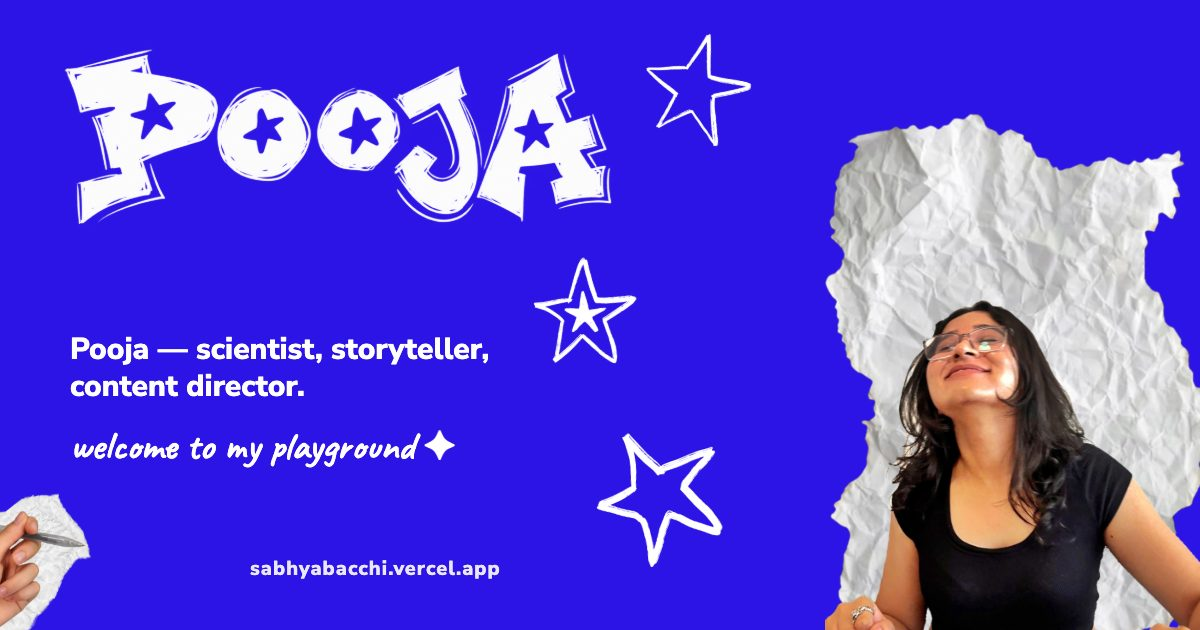
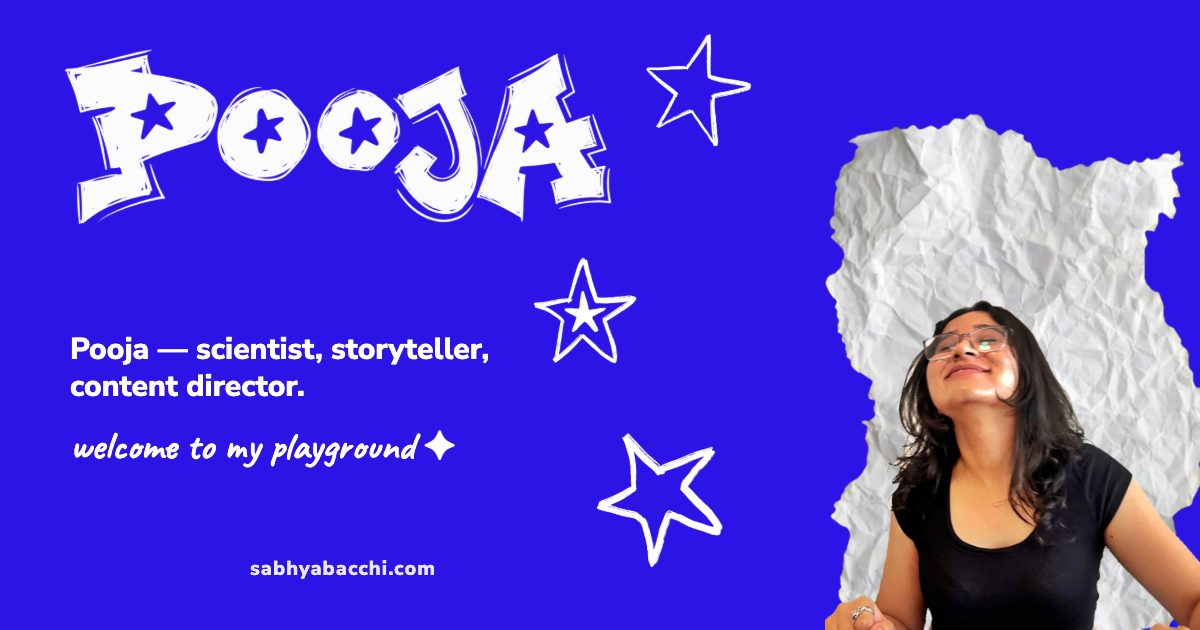
Switch canonical URLs and social cards to sabhyabacchi.com

Changed region(s): [[0.0, 0.7841, 0.0925, 1.0], [0.3392, 0.8746, 0.4317, 0.9349]]

diff --git a/my-work/index.html b/my-work/index.html
@@ -19,13 +19,13 @@
 <meta property="og:type" content="website">
 <meta property="og:title" content="My work — SabhyaBacchi">
 <meta property="og:description" content="Research, strategy and content direction for Minimalist × Hindustan Unilever — 22.8M views, 35.4K likes, 3 product launches informed.">
-<meta property="og:url" content="https://sabhyabacchi.vercel.app/my-work/">
-<meta property="og:image" content="https://sabhyabacchi.vercel.app/assets/og/work.jpg">
+<meta property="og:url" content="https://sabhyabacchi.com/my-work/">
+<meta property="og:image" content="https://sabhyabacchi.com/assets/og/work.jpg">
 <meta property="og:image:width" content="1200">
 <meta property="og:image:height" content="630">
 <meta name="twitter:title" content="My work — SabhyaBacchi">
 <meta name="twitter:description" content="Research, strategy and content direction for Minimalist × Hindustan Unilever — 22.8M views, 35.4K likes, 3 product launches informed.">
-<meta name="twitter:image" content="https://sabhyabacchi.vercel.app/assets/og/work.jpg">
+<meta name="twitter:image" content="https://sabhyabacchi.com/assets/og/work.jpg">
 <link rel="preconnect" href="https://images.squarespace-cdn.com">
 <link rel="preconnect" href="https://file.squarespace-cdn.com" crossorigin="">
 <style data-sqsp-font-ids="6a31393d494e3c6626e63daa,6a3137d3494e3c6626e63abc">

diff --git a/about/index.html b/about/index.html
@@ -19,13 +19,13 @@
 <meta property="og:type" content="website">
 <meta property="og:title" content="About — SabhyaBacchi">
 <meta property="og:description" content="A scientist. A paradox. A storyteller with a camera and crayons in her hands. Previously in STEM: DRDO, ISRO, Oxford, IISc.">
-<meta property="og:url" content="https://sabhyabacchi.vercel.app/about/">
-<meta property="og:image" content="https://sabhyabacchi.vercel.app/assets/og/about.jpg">
+<meta property="og:url" content="https://sabhyabacchi.com/about/">
+<meta property="og:image" content="https://sabhyabacchi.com/assets/og/about.jpg">
 <meta property="og:image:width" content="1200">
 <meta property="og:image:height" content="630">
 <meta name="twitter:title" content="About — SabhyaBacchi">
 <meta name="twitter:description" content="A scientist. A paradox. A storyteller with a camera and crayons in her hands. Previously in STEM: DRDO, ISRO, Oxford, IISc.">
-<meta name="twitter:image" content="https://sabhyabacchi.vercel.app/assets/og/about.jpg">
+<meta name="twitter:image" content="https://sabhyabacchi.com/assets/og/about.jpg">
 <link rel="preconnect" href="https://images.squarespace-cdn.com">
 <link rel="preconnect" href="https://file.squarespace-cdn.com" crossorigin="">
 <style data-sqsp-font-ids="6a31393d494e3c6626e63daa,6a3137d3494e3c6626e63abc">

diff --git a/contact/index.html b/contact/index.html
@@ -19,13 +19,13 @@
 <meta property="og:type" content="website">
 <meta property="og:title" content="Contact — SabhyaBacchi">
 <meta property="og:description" content="Say hi — collaborations, commissions, or just strange little things you think I'd like.">
-<meta property="og:url" content="https://sabhyabacchi.vercel.app/contact/">
-<meta property="og:image" content="https://sabhyabacchi.vercel.app/assets/og/contact.jpg">
+<meta property="og:url" content="https://sabhyabacchi.com/contact/">
+<meta property="og:image" content="https://sabhyabacchi.com/assets/og/contact.jpg">
 <meta property="og:image:width" content="1200">
 <meta property="og:image:height" content="630">
 <meta name="twitter:title" content="Contact — SabhyaBacchi">
 <meta name="twitter:description" content="Say hi — collaborations, commissions, or just strange little things you think I'd like.">
-<meta name="twitter:image" content="https://sabhyabacchi.vercel.app/assets/og/contact.jpg">
+<meta name="twitter:image" content="https://sabhyabacchi.com/assets/og/contact.jpg">
 <link rel="preconnect" href="https://images.squarespace-cdn.com">
 <link rel="preconnect" href="https://file.squarespace-cdn.com" crossorigin="">
 <style data-sqsp-font-ids="6a31393d494e3c6626e63daa,6a3137d3494e3c6626e63abc">

diff --git a/index.html b/index.html
@@ -19,13 +19,13 @@
 <meta property="og:type" content="website">
 <meta property="og:title" content="SabhyaBacchi — Pooja">
 <meta property="og:description" content="Pooja — scientist, storyteller, content director. Welcome to my playground.">
-<meta property="og:url" content="https://sabhyabacchi.vercel.app">
-<meta property="og:image" content="https://sabhyabacchi.vercel.app/assets/og/home.jpg">
+<meta property="og:url" content="https://sabhyabacchi.com">
+<meta property="og:image" content="https://sabhyabacchi.com/assets/og/home.jpg">
 <meta property="og:image:width" content="1200">
 <meta property="og:image:height" content="630">
 <meta name="twitter:title" content="SabhyaBacchi — Pooja">
 <meta name="twitter:description" content="Pooja — scientist, storyteller, content director. Welcome to my playground.">
-<meta name="twitter:image" content="https://sabhyabacchi.vercel.app/assets/og/home.jpg">
+<meta name="twitter:image" content="https://sabhyabacchi.com/assets/og/home.jpg">
 <link rel="preconnect" href="https://images.squarespace-cdn.com">
 <link rel="preconnect" href="https://file.squarespace-cdn.com" crossorigin="">
 <style data-sqsp-font-ids="6a31393d494e3c6626e63daa,6a3137d3494e3c6626e63abc">

diff --git a/og/about.html b/og/about.html
@@ -3,7 +3,7 @@
   <img class="star" src="../assets/img3.png" style="left:560px;top:40px;width:150px;transform:rotate(12deg)">
   <img class="star" src="../assets/img5.png" style="left:640px;top:420px;width:150px;transform:rotate(-10deg)">
   <div class="paper" style="height:720px;right:-20px;bottom:-60px"><img src="../assets/friend-paper.png"></div>
-  <div class="url" style="color:#2C14E6;opacity:1">sabhyabacchi.vercel.app</div>
+  <div class="url" style="color:#2C14E6;opacity:1">sabhyabacchi.com</div>
   <div class="title"><div class="kicker">[about me]</div>
     <div class="h1">A scientist.<br>A paradox.<br>A storyteller.</div></div>
   <div class="sub" style="max-width:600px;font-size:26px">…with a camera and crayons in her hands.<br><span style="opacity:.8;font-size:22px">previously in STEM · DRDO · ISRO · Oxford · IISc</span></div>

diff --git a/og/work.html b/og/work.html
@@ -3,7 +3,7 @@
   <img class="star" src="../assets/img2.png" style="left:560px;top:-30px;width:220px;transform:rotate(-8deg)">
   <img class="star" src="../assets/img5.png" style="left:600px;top:400px;width:120px;transform:rotate(10deg)">
   <div class="paper" style="height:700px;right:-30px;bottom:-50px"><img src="../assets/friend-paper.png"></div>
-  <div class="url" style="right:auto;left:70px;top:auto;bottom:20px;font-size:18px">sabhyabacchi.vercel.app</div>
+  <div class="url" style="right:auto;left:70px;top:auto;bottom:20px;font-size:18px">sabhyabacchi.com</div>
   <div class="title"><div class="kicker">[my work]</div>
     <div class="h1" style="font-size:76px">Minimalist ×<br>Hindustan Unilever</div>
     <div style="font-size:26px;font-weight:700;margin-top:18px;opacity:.9">research · strategy · content direction</div></div>

diff --git a/og/contact.html b/og/contact.html
@@ -3,7 +3,7 @@
   <img class="star" src="../assets/img3.png" style="left:520px;top:60px;width:170px;transform:rotate(10deg)">
   <img class="star" src="../assets/img2.png" style="left:560px;top:330px;width:260px;transform:rotate(-6deg)">
   <div class="hand" style="left:auto;right:-40px;height:560px;transform:scaleX(-1)"><img src="../assets/img1.png"></div>
-  <div class="url">sabhyabacchi.vercel.app</div>
+  <div class="url">sabhyabacchi.com</div>
   <div class="title"><div class="kicker">[contact]</div>
     <div class="h1">Say hi.</div>
     <div style="font-size:30px;font-weight:700;margin-top:22px;max-width:560px;line-height:1.3;opacity:.95">collaborations, commissions, or just strange little things you think I'd like.</div></div>

diff --git a/og/home.html b/og/home.html
@@ -7,5 +7,5 @@
   <img src="../assets/pooja-graffiti.png" style="position:absolute;left:56px;top:40px;width:560px">
   <div style="position:absolute;left:70px;top:330px;max-width:480px;font-size:30px;font-weight:800;line-height:1.25">Pooja — scientist, storyteller,<br>content director.</div>
   <div style="position:absolute;left:70px;top:420px;font-family:Caveat;font-size:40px">welcome to my playground ✦</div>
-  <div class="url" style="right:auto;left:auto;right:auto;left:250px;top:auto;bottom:48px;font-size:20px">sabhyabacchi.vercel.app</div>
+  <div class="url" style="right:auto;left:auto;right:auto;left:250px;top:auto;bottom:48px;font-size:20px">sabhyabacchi.com</div>
 </div>

diff --git a/build-pages.py b/build-pages.py
@@ -272,7 +272,7 @@ DECK_JS = """
 
 
 # ---- per-page social/SEO meta (og:*, twitter:*, description) ---------------
-BASE = "https://sabhyabacchi.vercel.app"
+BASE = "https://sabhyabacchi.com"
 PAGE_META = {
     "about":   ("About — SabhyaBacchi", "about",
                 "A scientist. A paradox. A storyteller with a camera and crayons in her hands. Previously in STEM: DRDO, ISRO, Oxford, IISc."),
